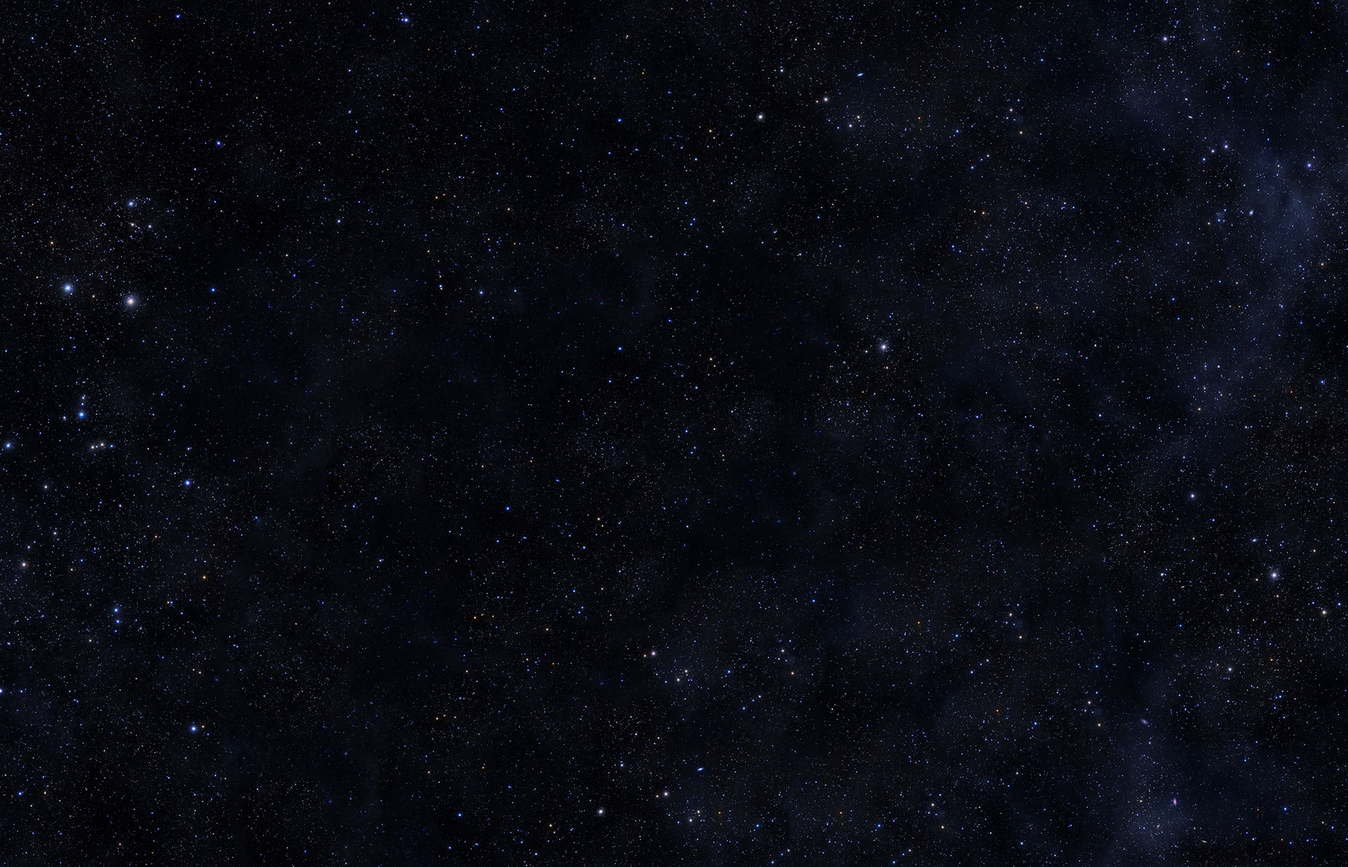
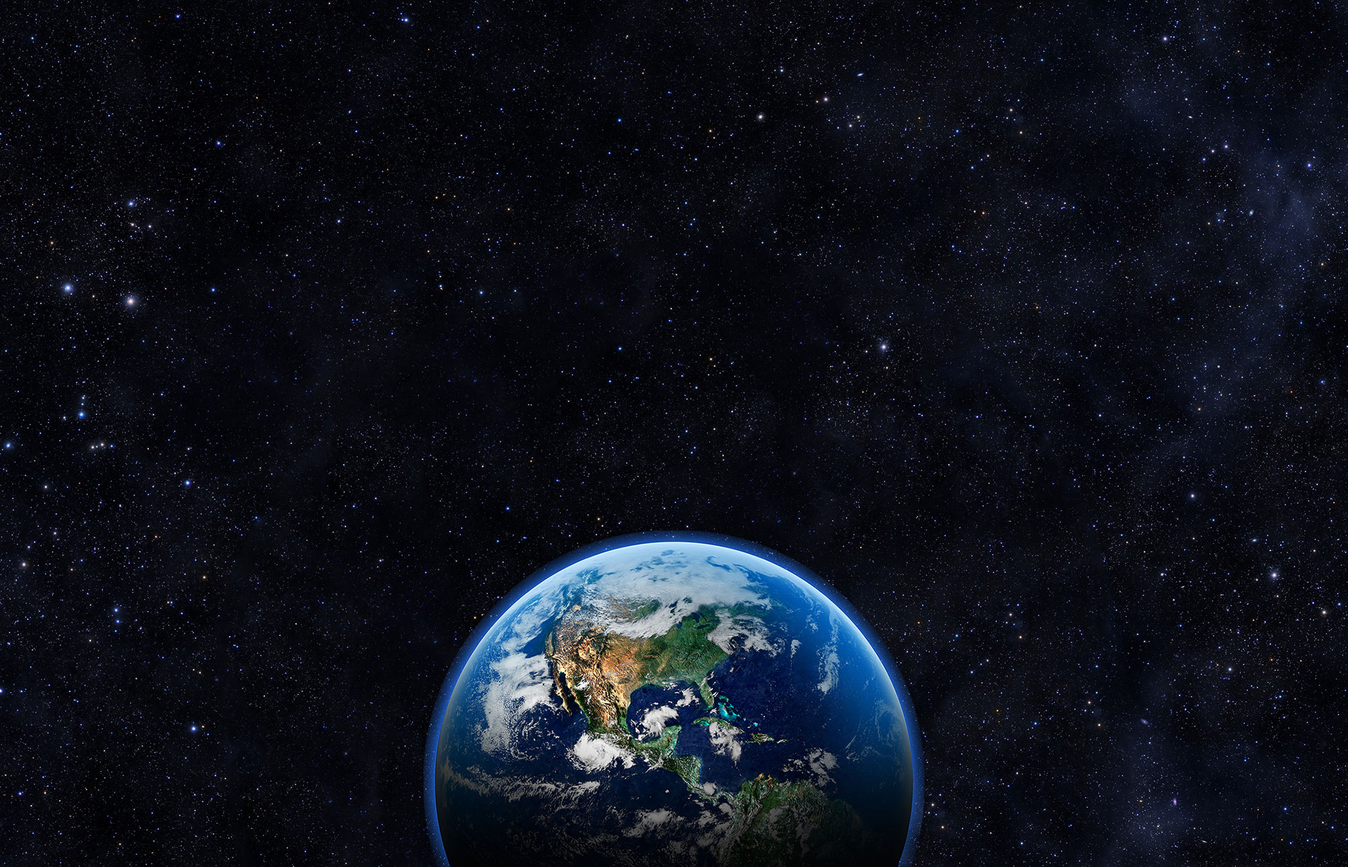
Background image optimization

Changed region(s): [[0.31, 0.5905, 0.713, 1.0]]

diff --git a/css/searchbox.css b/css/searchbox.css
@@ -279,7 +279,7 @@ input[type="search"] { /* reset normalize */
 
 .media-box img {
     display: inline-block;
-    height: 50px;
+    width: 50px;
     margin: 0 5px 0 0;
     vertical-align: middle;
 }
@@ -305,7 +305,7 @@ input[type="search"] { /* reset normalize */
     left: 0;
     width: 100%;
     height: 100%;
-    background: rgba(0,0,0,0.3);
+    background: rgba(0,0,0,0.7);
     opacity: 0;
     pointer-events: none;
     -webkit-transition: opacity 0.5s;
@@ -316,26 +316,6 @@ input[type="search"] { /* reset normalize */
 
 .unisearch.open ~ .overlay {
     opacity: 1;
-}
-
-.moving-object {
-    position: fixed;
-    top: 0;
-    left: 0;
-    width: 100%;
-    height: 100%;
-    pointer-events: none;
-    background: transparent url(../img/earth.png) no-repeat center bottom;
-    background-size: 400px 268px;
-    opacity: 1;
-    -webkit-transition: top 0.5s, background-size 0.5s;
-    transition: top 0.5s, background-size 0.5s;
-    -webkit-transition-timing-function: cubic-bezier(0.7,0,0.3,1);
-    transition-timing-function: cubic-bezier(0.7,0,0.3,1);
-}
-
-.unisearch.open ~ .moving-object {
-    background-size: 150px 100px;
 }
 
 .unisearch.open ~ aside > nav,
@@ -370,9 +350,5 @@ input[type="search"] { /* reset normalize */
         top: 135px;
         left: 50%;
         margin-left: -125px;
-    }
-
-    .unisearch.open ~ .moving-object {
-        opacity: 0;
     }
 }

diff --git a/index.html b/index.html
@@ -27,7 +27,7 @@
 <div class="container">
     <div id="unisearch" class="unisearch">
         <form class="unisearch-form">
-            <input class="unisearch-input" type="search" placeholder="Explore..."/>
+            <input class="unisearch-input" type="search" placeholder="Search..."/>
             <button class="unisearch-submit" type="submit">Search</button>
         </form>
         <div class="unisearch-content">
@@ -92,7 +92,7 @@
         <span class="unisearch-close"></span>
     </div>
     <header class="header">
-        <h1>Unisearch <span>Start exploring the universe...</span></h1>
+        <h1>Unisearch <span>Slick search box transformation</span></h1>
     </header>
     <aside class="clearfix">
         <nav>
@@ -101,7 +101,6 @@
             <a href="#"><i class="icon icomoon-chat"></i></a>
         </nav>
     </aside>
-    <div class="moving-object"></div>
     <div class="overlay"></div>
 </div>
 
